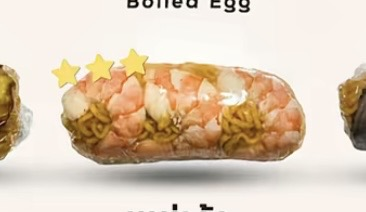
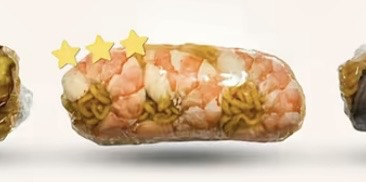
Move food images inside cat-body (show after tap), update mamaroll image

diff --git a/index.html b/index.html
@@ -376,15 +376,14 @@
     <button class="cat-toggle" onclick="toggleCat('saladroll')">
       <div class="cat-left">
         <div class="cat-check" id="check-saladroll"></div>
-        <div style="text-align:center;line-height:1.3;">
-          <img src="saladroll.jpeg" style="width:56px;height:42px;object-fit:cover;border-radius:6px;"><br>สลัดโรล
-        </div>
+        <span>สลัดโรล</span>
         <span class="cat-price">29 ฿</span>
       </div>
       <span class="cat-arrow" id="arrow-saladroll">▼</span>
     </button>
     <div class="cat-body" id="body-saladroll">
-      <p style="font-size:12px;color:var(--muted);margin-top:12px;margin-bottom:2px;">
+      <img src="saladroll.jpeg" style="width:100%;max-width:320px;height:160px;object-fit:cover;border-radius:10px;display:block;margin:12px auto 8px;">
+      <p style="font-size:12px;color:var(--muted);margin-top:4px;margin-bottom:2px;">
         กด + เพื่อเพิ่มจำนวน กำหนดไส้ได้แต่ละชิ้น (สูงสุด 1 ไส้)
       </p>
       <div id="saladroll-list"></div>
@@ -396,15 +395,14 @@
     <button class="cat-toggle" onclick="toggleCat('mamaroll')">
       <div class="cat-left">
         <div class="cat-check" id="check-mamaroll"></div>
-        <div style="text-align:center;line-height:1.3;">
-          <img src="mamaroll.jpeg" style="width:56px;height:42px;object-fit:cover;border-radius:6px;"><br>มาม่าโรล
-        </div>
+        <span>มาม่าโรล</span>
         <span class="cat-price">29 ฿</span>
       </div>
       <span class="cat-arrow" id="arrow-mamaroll">▼</span>
     </button>
     <div class="cat-body" id="body-mamaroll">
-      <p style="font-size:12px;color:var(--muted);margin-top:12px;margin-bottom:2px;">
+      <img src="mamaroll.jpeg" style="width:100%;max-width:320px;height:160px;object-fit:cover;border-radius:10px;display:block;margin:12px auto 8px;">
+      <p style="font-size:12px;color:var(--muted);margin-top:4px;margin-bottom:2px;">
         กด + เพื่อเพิ่มจำนวน กำหนดไส้ได้แต่ละชิ้น (สูงสุด 1 ไส้)
       </p>
       <div id="mamaroll-list"></div>